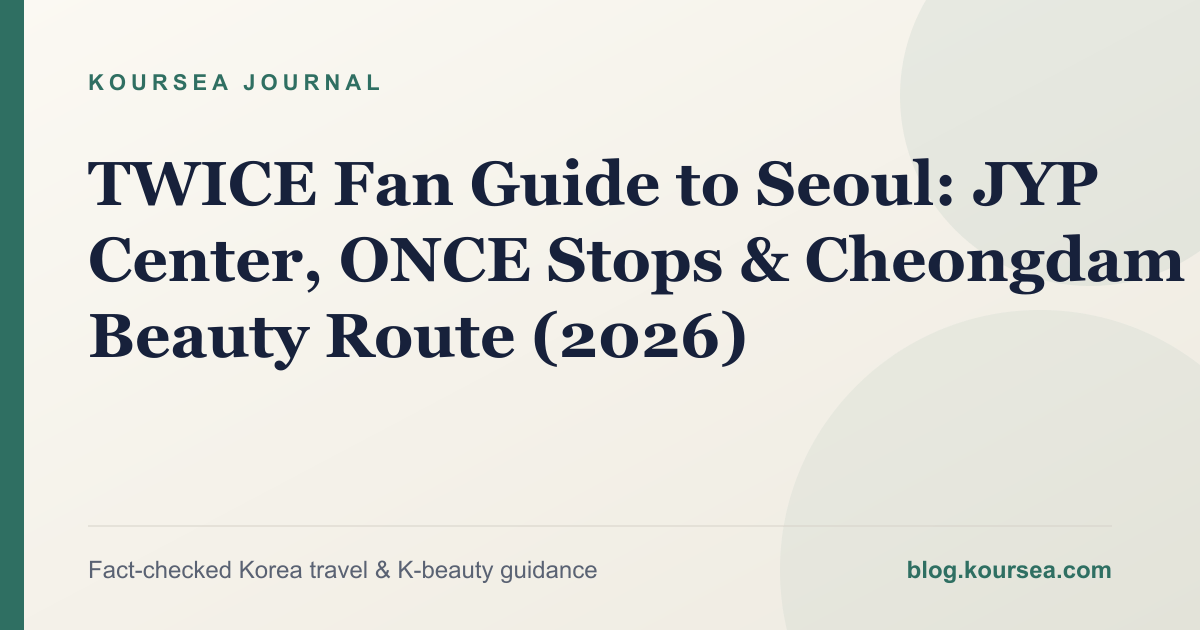
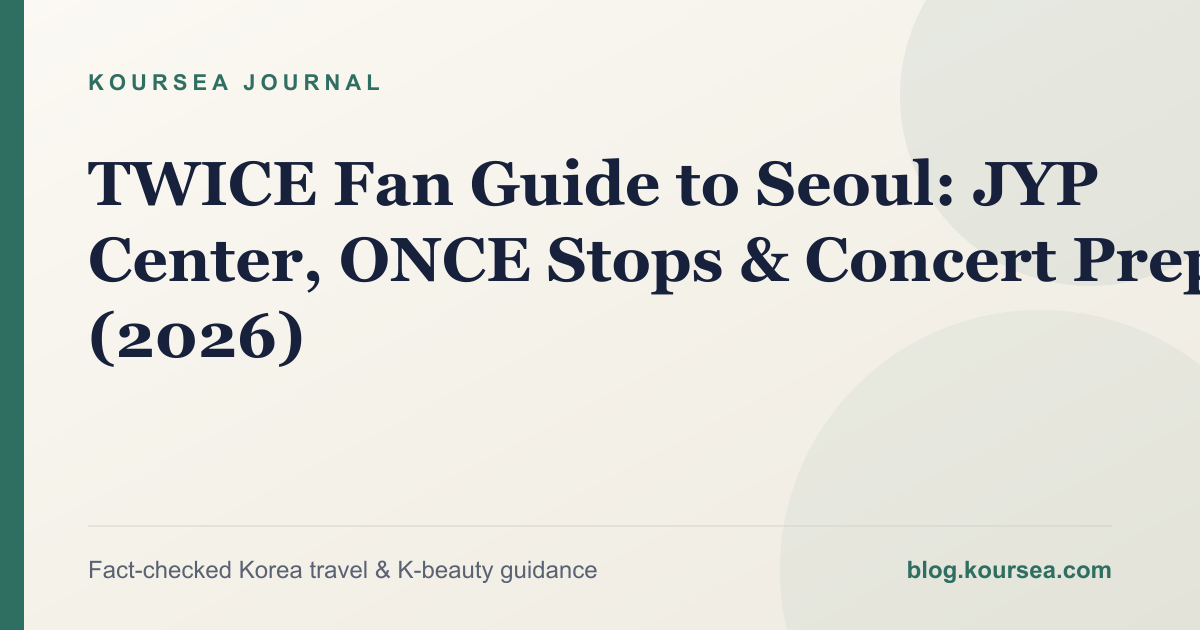
feat(kpop): publish BLACKPINK and BIGBANG fan guides

Changed region(s): [[0.0617, 0.4825, 0.6475, 0.6032], [0.7092, 0.3619, 1.0, 0.4825]]

diff --git a/src/content/posts/blackpink-fan-guide-yg-hapjeong.md b/src/content/posts/blackpink-fan-guide-yg-hapjeong.md
@@ -1,0 +1,85 @@
+---
+title: "BLACKPINK Fan Guide (2026): DEADLINE, YG Hapjeong & the SameE"
+description: "A current BLACKPINK fan guide to the DEADLINE era, official member activities, YG's Hapjeong headquarters, the SameE merchandise shop and concert prep."
+pubDate: 2026-09-07
+updatedDate: 2026-09-07
+category: "K-Pop & Concerts"
+tags:
+  - blackpink
+  - blink
+  - deadline-tour
+  - yg-entertainment
+  - the-samee
+  - kpop-travel
+canonicalUrl: "https://blog.koursea.com/posts/blackpink-fan-guide-yg-hapjeong/"
+author: "Koursea Editorial"
+---
+
+# BLACKPINK Fan Guide: DEADLINE, YG Hapjeong & the SameE
+
+BLACKPINK debuted in 2016 under YG Entertainment, and its official fandom is **BLINK**. For travelers planning around the group's 10th-anniversary era, the useful distinction is simple: official music and tour information belongs to BLACKPINK and YG channels, while Seoul sightseeing should stay limited to public places. The YG headquarters is a secure office, but the official fan space **the SameE** operates across the street.
+
+## Key Takeaways for BLINK
+
+- BLACKPINK opened the *DEADLINE* world tour at Goyang Stadium on July 5–6, 2025 and completed the announced tour in Hong Kong on January 26, 2026.
+- The third mini album *DEADLINE* was released on February 27, 2026 with “GO” as its title track.
+- YG headquarters in Hapjeong is not open for fan tours or lobby visits.
+- [the SameE Hapjeong](https://www.koursea.com/place/the-samee-hapjeong/) is the practical public stop for a café, official merchandise and temporary artist events.
+- K-Star Road in Gangnam is more than 15 kilometers away and is not part of the Hapjeong headquarters route.
+
+## BLACKPINK's DEADLINE Era
+
+YG's official tour record shows that the *DEADLINE* tour began with two Goyang Stadium concerts on July 5 and 6, 2025. The group previewed “JUMP” at the opening shows before its official July 11 release. The expanded schedule ultimately covered 16 cities and 33 performances, ending with three Hong Kong dates on January 24–26, 2026.
+
+BLACKPINK followed the tour with its third mini album, *DEADLINE*, released on February 27, 2026. YG's official discography lists five tracks: “JUMP”, title track “GO”, “Me and my”, “Champion” and “Fxxxboy”. These official pages are safer reference points than reposted schedules, fan-edited track lists or resale pages.
+
+August 2026 marked ten years since BLACKPINK's debut. That anniversary makes old and new Seoul guides easy to mix up, so check the publication date whenever a post claims that a museum, pop-up or shop is still operating.
+
+## Current Solo Activity: Check Each Member's Official Channel
+
+The members' solo releases and partnerships are managed through different companies and official channels. Do not assume every solo schedule will appear on YG's BLACKPINK page.
+
+### ROSÉ
+
+ROSÉ's solo album *rosie* includes “APT.” For current music, appearances and brand campaigns, use her official artist channels and the relevant label or event organizer rather than an unofficial BLACKPINK itinerary.
+
+### JENNIE
+
+JENNIE followed her album *Ruby* with the digital EP *Fallen Angel*, released on August 28, 2026. The release date and physical-edition information were announced through her official Weverse notices.
+
+### LISA
+
+LISA's solo catalog includes *Alter Ego*. Time-sensitive residency, concert and release plans should be checked through her official artist channels and the venue itself before booking travel; do not rely on copied social graphics.
+
+### JISOO
+
+JISOO followed *AMORTAGE* with the digital single “CLICK”, released on September 4, 2026. Use her official music channels for the release and current activity rather than treating film, fashion and music schedules as interchangeable fan events.
+
+## Visiting YG Headquarters and the SameE
+
+The [YG Entertainment headquarters](https://www.koursea.com/place/yg-entertainment-hq-hapjeong/) is at 7 Huiujeong-ro 1-gil in Mapo-gu. It is a working office with controlled access, not a public BLACKPINK attraction. Stay on public sidewalks, keep entrances and driveways clear, and do not wait for artists, employees or vehicles.
+
+Across the street, the SameE provides the visitor-facing option. YG notices identify its café on floors 1–2 and its MD shop on basement level 1 at 6-3 Huiujeong-ro 1-gil. Merchandise inventory, anniversary events and purchase benefits change, so confirm the current notice before traveling for a specific item.
+
+Hapjeong and Gangnam should not be presented as one compact fan route. K-Star Road in Apgujeong–Cheongdam is a separate cross-city destination, not a walkable extension of YG headquarters. If you visit both, budget a distinct transit block and choose each on its own merits.
+
+## BLACKPINK Concert Ticket Preparation
+
+The official Goyang notice required separate BLINK membership and ticket-platform registration for presale access. Future events may use different rules, but the same preparation discipline helps:
+
+1. Read the organizer's notice for the exact city and performance.
+2. Match membership, ticket account and passport names when identity checks apply.
+3. Complete presale registration before the ticket queue opens.
+4. Test an accepted card and keep a backup payment method.
+5. Ignore sellers who promise that a non-transferable ticket will work under another name.
+
+Use our [K-Pop concert ticketing guide](/posts/kpop-concert-ticketing-seoul-2026/) for NOL Ticket, waiting rooms, foreign-card errors and ID checks.
+
+## Official Sources
+
+- [YG: BLACKPINK DEADLINE album release notice](https://ygfamily.com/ko/news/notice/5871)
+- [YG: BLACKPINK official DEADLINE tour schedule](https://artist.ygfamily.com/ARTISTS/BLACKPINK/concert/2025TOUR/index.html)
+- [YG: BLACKPINK DEADLINE track list](https://www.ygfamily.com/ko/artists/blackpink/discography/1652)
+- [YG: the SameE official address and floor information](https://www.ygfamily.com/ko/news/notice/5727)
+- [JENNIE official Fallen Angel release notice](https://weverse.io/jennie/notice/38516)
+- [Warner Music: JISOO CLICK](https://wmg.jp/jisoo)

diff --git a/src/content/posts/bigbang-gdragon-fan-guide.md b/src/content/posts/bigbang-gdragon-fan-guide.md
@@ -1,0 +1,80 @@
+---
+title: "BIGBANG & G-Dragon Fan Guide (2026): BiiiG, XX : COSMOS & Seoul Prep"
+description: "A current guide to BIGBANG's three-member 20th-anniversary comeback, BiiiG, the XX : COSMOS world tour, G-Dragon's agency status and concert planning."
+pubDate: 2026-09-07
+updatedDate: 2026-09-07
+category: "K-Pop & Concerts"
+tags:
+  - bigbang
+  - g-dragon
+  - vip
+  - biiig
+  - xx-cosmos
+  - kpop-concert
+canonicalUrl: "https://blog.koursea.com/posts/bigbang-gdragon-fan-guide/"
+author: "Koursea Editorial"
+---
+
+# BIGBANG & G-Dragon Fan Guide: BiiiG, XX : COSMOS & Seoul Prep
+
+BIGBANG debuted in 2006, and its official fandom is **V.I.P**. The group is active in 2026 as a three-member lineup of G-Dragon, Taeyang and Daesung. T.O.P publicly confirmed his departure from the group in 2023 and is not part of the current comeback or tour lineup. This guide separates BIGBANG's group production relationship with YG Entertainment from each member's individual agency.
+
+## Key Takeaways for V.I.P
+
+- BIGBANG returned as a three-member group with the digital single “BiiiG” on August 19, 2026.
+- The 20th-anniversary world tour *XX : COSMOS* opened at Goyang Stadium on August 21–23, 2026.
+- YG is the group's concert and production partner for this project, but the members do not share one individual management contract.
+- G-Dragon is represented by Galaxy Corporation, Taeyang by THEBLACKLABEL and Daesung by R&D Company.
+- YG headquarters is a historic reference point, not a public BIGBANG museum or proof that the members currently work there day to day.
+
+## The 20th-Anniversary Comeback
+
+YG's official announcement describes “BiiiG” as BIGBANG's first new song in four years. It was released at 6 p.m. KST on August 19, 2026, the group's 20th debut anniversary. G-Dragon participated in its writing and composition.
+
+The anniversary project continued with three sold-out Goyang Stadium concerts from August 21 to 23. YG's official tour site lists *BIGBANG 2026–2027 WORLD TOUR <XX : COSMOS>* dates extending into 2027. Its announced scale is 19 cities and 33 performances, but fans should use the live tour page for additions, cancellations and local ticket links rather than copying a fixed itinerary from this article.
+
+## BIGBANG Is Currently a Three-Member Group
+
+The active lineup is G-Dragon, Taeyang and Daesung. T.O.P stated in 2023 that he had left BIGBANG and is not included in the 2026 three-member comeback. This is a lineup fact, not an invitation to revisit controversies or speculate about private relationships.
+
+Older promotional photos, merchandise listings and search snippets may still show previous lineups. For a 2026 concert, rely on the current organizer poster and official event notice.
+
+## Understanding the Agency Structure
+
+BIGBANG's 20th-anniversary group activities involve YG as a concert and production partner. That does not mean each member has returned to YG under an individual exclusive contract.
+
+- **G-Dragon:** Galaxy Corporation.
+- **Taeyang:** THEBLACKLABEL.
+- **Daesung:** R&D Company.
+
+This distinction matters when following solo releases, fan meetings and brand activity. Use the relevant member's current agency for individual schedules, then use YG's BIGBANG pages for the group tour and group releases.
+
+## Why G-Dragon Can Keep His Stage Name
+
+In 2024, YG transferred the trademarks for “G-Dragon” and “GD” to Galaxy Corporation without payment. Both Galaxy and YG confirmed the transfer to Yonhap. The transfer allows G-Dragon to continue using the established stage name in solo activity after his individual YG contract ended; it should not be misread as a new exclusive contract with YG.
+
+## Is YG Headquarters a BIGBANG Attraction?
+
+BIGBANG has a long history with YG, but [YG Entertainment headquarters in Hapjeong](https://www.koursea.com/place/yg-entertainment-hq-hapjeong/) remains a secure workplace. It has no general fan-tour access. Photograph only from public space and do not block entrances or wait for artists.
+
+The visitor-facing alternative across the street is [the SameE Hapjeong](https://www.koursea.com/place/the-samee-hapjeong/), where YG has held official artist-anniversary café events and sold official merchandise. Current stock and event benefits are never guaranteed; check the latest official notice before making a dedicated trip.
+
+## XX : COSMOS Ticket and Travel Checklist
+
+Tour dates cross multiple ticketing companies and local rules. Prepare from the notice for your exact city:
+
+1. Confirm the current date and venue on the official tour site.
+2. Create the named ticketing account before presale day.
+3. Match your legal name to your passport if the organizer announces identity checks.
+4. Check whether fan-club membership requires a separate presale application.
+5. Save the venue address, prohibited-items list and last-train route offline.
+
+Our [K-Pop concert ticketing guide](/posts/kpop-concert-ticketing-seoul-2026/) explains Korean ticket platforms, queue behavior, foreign-card declines and non-transferable ticket risks.
+
+## Official Sources
+
+- [YG: BIGBANG 20th-anniversary comeback and tour announcement](https://ygfamily.com/en/news/report/7553)
+- [YG: BIGBANG BiiiG release announcement](https://www.ygfamily.com/en/news/report/7549)
+- [YG: XX : COSMOS official tour schedule](https://artist.ygfamily.com/ARTISTS/BIGBANG/concert/worldtour/index.html)
+- [YG: BIGBANG concert page](https://ygfamily.com/en/artists/bigbang/concert)
+- [Yonhap: G-Dragon trademark transfer](https://m-en.yna.co.kr/view/AEN20240801011700315)

diff --git a/src/content/posts/twice-fan-guide-jyp-cheongdam.md b/src/content/posts/twice-fan-guide-jyp-cheongdam.md
@@ -1,8 +1,8 @@
 ---
-title: "TWICE Fan Guide to Seoul: JYP Center, ONCE Stops & Cheongdam Beauty Route (2026)"
-description: "A practical TWICE fan guide to JYP Center in Seongnae-dong, respectful exterior photos, Seoul route planning, Cheongdam beauty stops and ticket prep."
+title: "TWICE Fan Guide to Seoul: JYP Center, ONCE Stops & Concert Prep (2026)"
+description: "A practical TWICE fan guide to JYP Center in Seongnae-dong, respectful exterior photos, Olympic Park routing and concert ticket preparation."
 pubDate: 2026-09-02
-updatedDate: 2026-09-02
+updatedDate: 2026-09-07
 category: "K-Pop & Concerts"
 tags:
   - twice
@@ -15,7 +15,7 @@ canonicalUrl: "https://blog.koursea.com/posts/twice-fan-guide-jyp-cheongdam/"
 author: "Koursea Editorial"
 ---
 
-# TWICE Fan Guide to Seoul: JYP Center, ONCE Stops & Cheongdam Beauty Route
+# TWICE Fan Guide to Seoul: JYP Center, ONCE Stops & Concert Prep
 
 TWICE debuted on October 20, 2015 with *The Story Begins* under JYP Entertainment. The nine members are Nayeon, Jeongyeon, Momo, Sana, Jihyo, Mina, Dahyun, Chaeyoung and Tzuyu, and their official fandom is **ONCE**. A Seoul fan trip can include the [JYP Center exterior](https://www.koursea.com/place/jyp-entertainment-center-gangdong/), but the current headquarters is in **Seongnae-dong, Gangdong-gu—not Cheongdam**. Cheongdam works better as a separate K-beauty and fashion extension to the day.
 
@@ -43,7 +43,7 @@ TWICE's visual history makes a beauty-and-design route a natural companion, but 
 
 Start at Gangdong-gu Office Station, visit the JYP exterior respectfully, then continue to Olympic Park. Use the park's public art, gardens and broad walkways for colorful photos. Check venue calendars in advance; a concert-day visit can mean heavy crowds even when you are not attending the show.
 
-### Afternoon: Cheongdam beauty district
+### Optional Cross-City Extension: Cheongdam Beauty (Unrelated to JYP's Current Location)
 
 Travel west to Cheongdam or Apgujeong Rodeo for K-beauty retail, makeup services and salon appointments. This is a separate district from JYP Center and takes meaningful travel time, so book appointments with a buffer. Verify the total price, service duration, cancellation policy and whether English consultation is available directly with the business.
 
